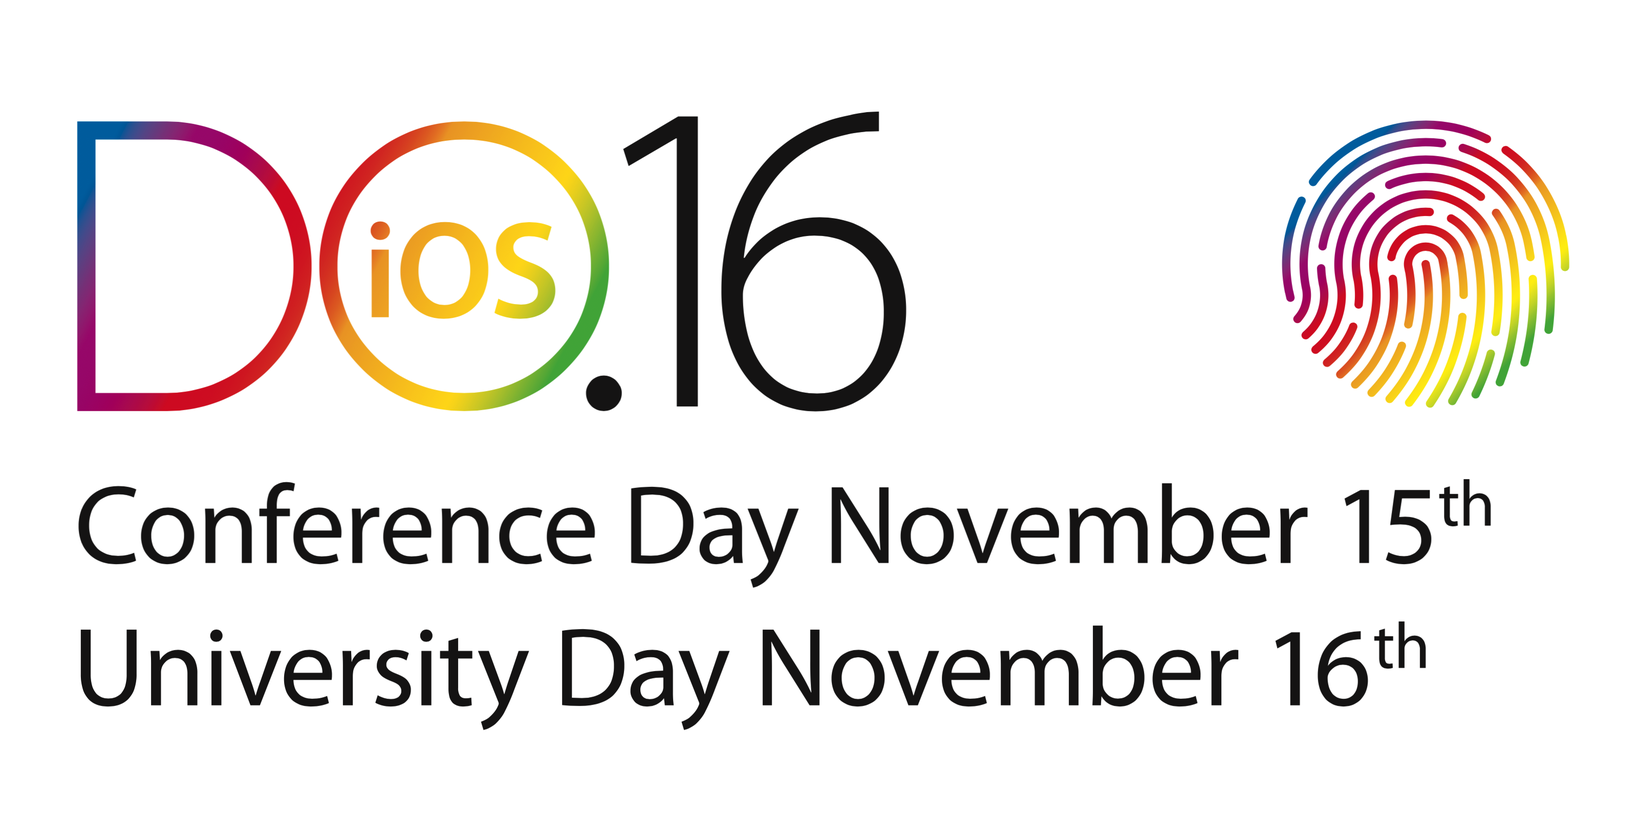
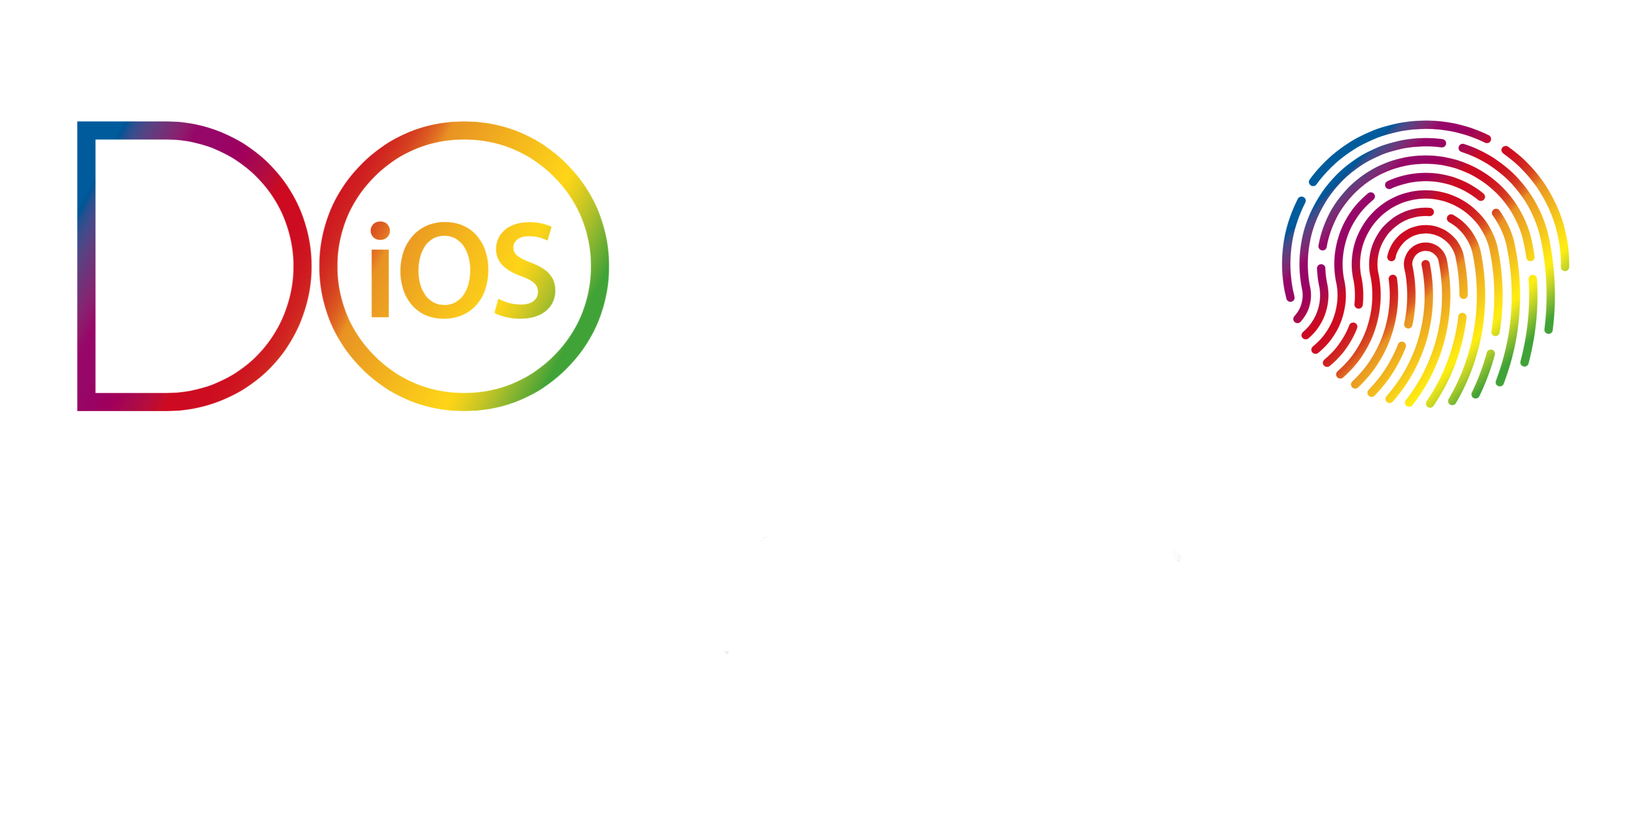
Update site for launch 2018.

Changed region(s): [[0.0312, 0.75, 0.875, 0.9062], [0.0312, 0.5938, 0.9062, 0.7188], [0.3438, 0.125, 0.5625, 0.5]]

diff --git a/index.html b/index.html
@@ -3,17 +3,17 @@
   <head>
     <title>DO iOS Conference-The iOS conference in Amsterdam</title>
     <meta charset="utf-8"/>
-    <meta name="description" content="Meet us in Amsterdam, November 15th and 16th, 2016 and get inspired by talks from the best gurus and iOS professionals."/>
+    <meta name="description" content="Meet us in Amsterdam, November 2nd, 2018."/>
     <meta name="twitter:card" content="summary_large_image">
-    <meta name="twitter:image" content="http://do-ios.com/images/card.png?v=1337">
+    <meta name="twitter:image" content="https://do-ios.com/images/card.png?v=1337">
     <meta name="twitter:site" content="@iosconf">
-    <meta name="twitter:title" content="DO iOS Conference-The iOS conference in Amsterdam">
-    <meta name="twitter:description" content="Meet us in Amsterdam, November 15th and 16th, 2016 and get inspired by talks from the best gurus and iOS professionals.">
-    <meta property="og:url" content="http://do-ios.com/" />
-    <meta property="og:title" content="DO iOS Conference-The iOS Conference in Amsterdam" />
-    <meta property="og:description" content="Meet us in Amsterdam, November 15th and 16th, 2016 and get inspired by talks from the best gurus and iOS professionals." />
-    <meta property="og:image" content="http://do-ios.com/images/card.png?v=1337" />
-    <meta name="keywords" content="iOS conference amsterdam do november 2016 zwijger"/>
+    <meta name="twitter:title" content="DO iOS Conference - The iOS conference in Amsterdam">
+    <meta name="twitter:description" content="Meet us in Amsterdam, November 2nd, 2018.">
+    <meta property="og:url" content="https://do-ios.com/" />
+    <meta property="og:title" content="DO iOS Conference - The iOS Conference in Amsterdam" />
+    <meta property="og:description" content="Meet us in Amsterdam, November 2nd, 2018." />
+    <meta property="og:image" content="https://do-ios.com/images/card.png?v=1337" />
+    <meta name="keywords" content="iOS conference amsterdam do november 2018"/>
     <meta name="viewport" content="width=device-width">
     <link rel="stylesheet" href="main.css?v=41"/>
     <link rel="shortcut icon" type="image/png" href="/images/logo-60.png"/>
@@ -27,235 +27,40 @@
       <div id="topMenu">
         <div id="logo-wrapper">
           <p id="logo_and_payoff">
-            <img id="logo" src="images/do_ios_logo_with_date.png" />
+            <img id="logo" src="images/do_ios_logo.png" />
             Conference for<br>developers
           </p>
           <img id="caliper" src="images/caliper.png" />
         </div>
         <div class="full-horizontal upper">
-            <a href="#speakers" class="hover-red">Speakers</a>
-            <a href="#conference" class="hover-blue">Conference</a>
-            <!--<a href="#university" class="hover-purple">University</a>-->
-            <a href="#schedule" class="hover-green">Schedule</a>
-            <!--<a href="#tickets" class="hover-orange">Tickets</a>
-            <a href="#location" class="hover-yellow">Location</a>-->
+<!--             <a href="#speakers" class="hover-red">Speakers</a> -->
+<!--             <a href="#conference" class="hover-blue">Conference</a> -->
+<!--             <a href="#university" class="hover-purple">University</a> -->
+<!--             <a href="#schedule" class="hover-green">Schedule</a> -->
+            <a href="#tickets" class="hover-orange">Tickets</a>
+<!--             <a href="#location" class="hover-yellow">Location</a> -->
             <a href="#contact" class="hover-green">Contact</a>
         </div>
         <div id="fake-bottom-separator"></div>
       </div>
       <section class="main">
         <a name="conference"></a> 
+        <h1>
+	        Save the date November 2nd, 2018.<br/>
+	        More info soon.
+        </h1>
         <p>
-          Thanks for another great DO iOS, and see you next year!<br>
-          Videos of the 2016 sessions will be online soon at our <a href="https://www.youtube.com/playlist?list=PLC3RVtNPazW9npPAmF61HyNDCiL3GDmoZ&mc_cid=24fc5b5631">YouTube channel</a><br>
-        </p>
-        <img width="171.5" class="date scale-effect" src="images/november_15.png" />
-        <img width="172" class="date scale-effect" src="images/november_16.png" /><br>
-        <!--<a href="https://itunes.apple.com/us/app/do-conf-schedule/id1049435615?mt=8"><img src="images/appstore.svg" /></a>-->
-      </section>
-      <section class="main fade">
-        <div class="col-3"><h3>Conference for developers</h3><p>Learn about the latest advancements in Apple technologies.</p></div>
-        <div class="vertical-separator"></div>
-        <div class="col-3"><h3>In-Depth experience</h3><p>Immerse yourself in fantastic sessions about <span class="ios">iOS</span>, Swift and the latest frameworks.</p></div>
-        <div class="vertical-separator"></div>
-        <div class="col-3"><h3>Build to last</h3><p>Get insight into best practices to create 5-star apps.</p></div>
-      </section>
-      <section class="main">
-        <a name="speakers"></a>
-        <img class="h1 scale-effect" src="images/speech_bubble.png"/>
-        <h1>Speakers</h1>
-        <ul id="speakers">
-          <li>
-            <img class="speaker-image-round" src="images/speakers/ayaka_nonaka.jpg" />
-            <h4>Ayaka Nonaka</h4>
-            <h5>Keynote: contributing to swift</h5>
-            <h5><a href="http://twitter.com/ayanonagon">@ayanonagon</a></h5>
-            <p>iOS Engineer @ WorkflowHQ and author of <a href="http://swift.ayaka.me/">Learn Swift ↯</a></p>
-          </li>
-          <li>
-            <img class="speaker-image-round" src="images/speakers/steve_scotty.png" />
-            <h4>Steve Scott</h4>
-            <h5>Closing keynote: the selfie developer</h5>
-            <h5><a href="http://twitter.com/macdevnet">@macdevnet</a></h5>
-            <p>OS X / iOS Developer and host of the <a href="http://blog.ideveloper.co/">iDeveloper Podcast</a></p>
-          </li>
-          <li>
-            <img class="speaker-image-round" src="images/speakers/nandini.png" />
-            <h4>Nandini Chauhan</h4>
-            <h5>1 + 1 = 1</h5>
-            <h5><a href="https://twitter.com/nandinichauhan8">@nandinichauhan8</a></h5>
-            <p>iOS chapter lead and iOS developer at ING Mobile developing the latest and greatest features for their customers</p>
-          </li>
-          <li>
-            <img class="speaker-image-round" src="images/speakers/jorge_ortiz.jpg" />
-            <h4>Jorge Ortiz</h4>
-            <h5>To protect and to serve</h5>
-            <h5><a href="http://twitter.com/jdortiz">@jdortiz</a></h5>
-            <p>Freelance developer dedicated to mobile development, security and systems architecture</p>
-          </li>
-          <li>
-            <img class="speaker-image-round" src="images/speakers/niels_van_hoorn.jpg" />
-            <h4>Niels van Hoorn</h4>
-            <h5>Protocol-oriented coordinators</h5>
-            <h5><a href="http://twitter.com/nvh">@nvh</a></h5>
-            <p>Product engineer at Framer. Master in AI. Worked on NRC iOS apps.</p>
-          </li>
-          <li>
-            <img class="speaker-image-round" src="images/speakers/natalia_berdys.jpg" />
-            <h4>Natalia Berdys</h4>
-            <h5>More random talk: the consistent world of noise</h5>
-            <h5><a href="http://twitter.com/batalia">@batalia</a></h5>
-            <p>Independent iOS developer from Poland.</p>
-          </li>
-          <li>
-            <img class="speaker-image-round" src="images/speakers/antoine.jpg" />
-            <h4>Antoine van der Lee</h4>
-            <h5>Using Functional Reactive Programming in Production</h5>
-            <h5><a href="http://twitter.com/twannl">@twannl</a></h5>
-            <p>Lead iOS developer @ Triple, developer of Buienradar & Videoland</p>
-          </li>
-          <li>
-            <img class="speaker-image-round" src="images/speakers/bart_den_hollander.jpg" />
-            <h4>Bart den Hollander</h4>
-            <h5>Improving performance of UICollectionView on iOS 10</h5>
-            <h5><a href="http://twitter.com/hollanderbart">@hollanderbart</a></h5>
-            <p>Embedded programmer turned Swifty iOS developer</p>
-          </li>
-          <li>
-            <img class="speaker-image-round" src="images/speakers/donny_wals.jpg" />
-            <h4>Donny Wals</h4>
-            <h5>Improving apps with iOS 10 notifications</h5>
-            <h5><a href="http://twitter.com/DonnyWals">@DonnyWals</a></h5>
-            <p>Passionate iOS developer. Loves learning and sharing knowledge.</p>
-          </li>
-          <li>
-            <img class="speaker-image-round" src="images/speakers/rob_napier.png" />
-            <h4>Rob Napier</h4>
-            <h5>Once more, with types</h5>
-            <h5><a href="http://twitter.com/cocoaphony">@cocoaphony</a></h5>
-            <p>Author and Cocoa programmer with a passion for the fiddly bits below the surface</p>
-          </li>
-        </ul>
-      </section>
-      <section class="main schedule fade">
-        <a name="schedule"></a>
-        <img class="h1 scale-effect" src="images/speech_bubble.png"/>
-        <h1>Schedule</h1>
-        <h4>Conference Day 15th November</h4>
-        <ul class="schedule-contents">
-          <li>
-            <span class="time">8:00</span> - <span class="schedule-title">Registration</span>
-          </li>
-          <li>
-            <span class="time">9:00</span> - <span class="schedule-title">Introduction</span>
-          </li>
-          <li>
-            <span class="time">9:15</span> - <span class="schedule-title">Keynote: contributing to swift</span><a class="speaker" href="http://twitter.com/ayanonagon"> - Ayaka Nonaka</a>
-            <p class="small-screen-speaker"> - <a href="http://twitter.com/ayanonagon">Ayaka Nonaka</a></p>
-          </li>
-          <li>
-            <span class="time">10:00</span> - <span class="schedule-title">To protect and to serve</span><a class="speaker" href="http://twitter.com/jdortiz"> - Jorge Ortiz</a>
-            <p class="small-screen-speaker"> - <a href="http://twitter.com/jdortiz">Jorge Ortiz</a></p>
-            <p>Now that we can use Swift in the backend, it is even more relevant to use a good architecture in order to maximize the amount of code that we can share between the frontend and the backend.</p>
-            <p>In this talk, I will start by covering briefly the architecture of a mobile app.  Then, using that architecture as a reference, I will explain the parts that can be easily shared and the keys for an implementation that maximizes the chances of that sharing.  I will also go through some scenarios in which sharing the code will not help us much.</p>
-          </li>
-          <li>
-            <span class="time">10:30</span> - <span class="schedule-title">Break</span>
-          </li>
-          <li>
-            <span class="time">11:00</span> - <span class="schedule-title">Improving performance for UICollectionView in iOS 10</span><a class="speaker" href="http://twitter.com/hollanderbart"> - Bart den Hollander</a>
-            <p class="small-screen-speaker"> - <a href="http://twitter.com/hollanderbart">Bart den Hollander</a></p>
-            <p>With iOS10, Apple implemented a whole load of new features, but also some tweaks to existing ones, like in UICollectionView (and UITableView). With this presentation I will dive into the differences between iOS 10 and previous versions. I will demonstrate and show what the new possibilities are using live streams from Dutch television broadcast NPO, shown in a collectionview.</p>
-          </li>
-          <li>
-            <span class="time">11:30</span> - <span class="schedule-title">ING: 1 + 1 = 1</span><span class="speaker"> - Nandini Chauhan</span>
-            <p class="small-screen-speaker"> - <span>Nandini Chauhan</span></p>
-            <p>This year the ING has been working on taking their banking app for the Dutch market global. In this presentation Nandini will talk about this journey and how the team at ING tackled some of the obstacles along the way.</p>
-          </li>
-          <li>
-            <span class="time">12:20</span> - <span class="schedule-title">Lunch break</span>
-          </li>
-          <li>
-            <span class="time">13:30</span> - <span class="schedule-title">Using Functional Reactive Programming</span><a class="speaker" href="http://twitter.com/twannl"> - Antoine van der Lee</a>
-            <p class="small-screen-speaker"> - <a href="http://twitter.com/twannl">Antoine van der Lee</a></p>
-            <p>This talk will give you insights into how Functional Reactive Programming can help you build apps faster by making it more easy to implementing common patterns such as networking failure UI feedback. I’ll discuss the way we build apps like RTL XL and Buienradar at Triple and how we create projects which are familiar to work on for all developers in our team.
+          Thanks for a great DO iOS 2015 and 2016!<br>
 
-Combining ReactiveCocoa, Moya and a JSON parsing libraries creates new ways of networking in iOS apps built with Swift. By creating UI elements which can connect with these library you gain the ability to implement common patterns.
-</p>
-          </li>
-          <li>
-          <span class="time">14:00</span> - <span class="schedule-title">Improving apps with iOS 10 notifications</span><a class="speaker" href="http://twitter.com/DonnyWals"> - Donny Wals</a>
-            <p class="small-screen-speaker"> - <a href="http://twitter.com/DonnyWals">Donny Wals</a></p>
-            <p>Apple has introduced a new framework for notifications in iOS 10. This framework enabled developers to build extensions that provide awesome new ways for users to interact with apps at a moment's notice.</p>
-            <p>The talk will start off with an overview of iOS 10 notifications and how they are different from iOS 9. Next, I'll show how to implement the new Notifications framework and how to create a notification extension. Then I'll demonstrate how to implement a notification that enables a user to use a small part of your app without opening. Finally, I will provide some insights into how the audience can think of ways to enrich their notifications and boost engagement with the new Notifications framework.</p>
-          </li>
-          <li>
-            <span class="time">14:30</span> - <span class="schedule-title">Break</span>
-          </li>
-          <li>
-            <span class="time">15:00</span> - <span class="schedule-title">Protocol-oriented coordinators</span><a class="speaker" href="http://twitter.com/nvh"> - Niels van Hoorn</a>
-            <p class="small-screen-speaker"> - <a href="http://twitter.com/nvh">Niels van Hoorn</a></p>
-            <p>As ViewControllers have the tendency to become massive over time, we’re looking for patterns to move responsibilities to other objects. Using Coordinators is one way to handle this problem. In this live coding session we we explore a protocol oriented way of implementing coordinators, using some new features of Swift 3.</p>
-            <p>Because this session will be performed completely in Swift Playgrounds on an iPad, it will also show that, while Playgrounds are fun to play around with, they are definitely more then a toy.</p>
-          </li>
-          <li>
-            <span class="time">15:30</span> - <span class="schedule-title">More random talk: the consistent world of noise</span><a class="speaker" href="http://twitter.com/batalia"> - Natalia Berdys</a>
-            <p class="small-screen-speaker"> - <a href="http://twitter.com/batalia">Natalia Berdys</a></p>
-            <div class="col-md-offset-4">
-              <p>Chance permeates our human existence - but it’s our instinct to seek order in chaos. In this extended talk, we’ll dig deeper into the fishy realm of randomness, and when it’s just too unnatural for our apps - let’s bend it to our will by making it evolve into coherent patterns with the GameplayKit framework. We’ll use some of the newest iOS 10 APIs and procedural noise to generate harmonious digital worlds, landscapes and textures - a comforting way to mine some creativity from silicon chips.</p>
-            </div>
-          </li>
-          <li>
-            <span class="time">16:00</span> - <span class="schedule-title">Break</span>
-          </li>
-          <li>
-            <span class="time">16:30</span> - <span class="schedule-title">Once more, with types</span><a class="speaker" href="http://twitter.com/cocoaphony"> - Rob Napier</a>
-            <p class="small-screen-speaker"> - <a href="http://twitter.com/cocoaphony">Rob Napier</a></p>
-            <div class="col-md-offset-4">
-              <p>Functional programming in Swift is all the rage, but many of the tools of functional languages don't translate easily to Swift. So much focus on lambdas and monads has caused us to overlook one of the most powerful lessons from decades of functional programming research: the power of strong types.</p>
-              <p>In this session we'll discuss what makes types weak or strong and how to build simple types that make whole classes of bugs impossible. We'll learn to tear over-complicated types apart and put them back together using simple rules. And we'll learn the basic vocabulary of types so we can talk about why to choose a struct or an enum, when to use an Optional, and how to fix common type mistakes in Swift.</p>
-          </li>
-          <li>
-            <span class="time">17:00</span> - <span class="schedule-title">Closing keynote: the selfie developer</span><a class="speaker" href="http://twitter.com/macdevnet"> - Steve Scott</a>
-            <p class="small-screen-speaker"> - <a href="http://twitter.com/macdevnet">Steve Scott</a></p>
-          </li>
-          <li>
-            <span class="time">17:45</span> - <span class="schedule-title">Closing + drinks!</span>
-          </li>
-          <li class="sessions-footer">
-            Schedule is subject to change
-          </li>
-        </ul>
+          Videos of the 2016 sessions are available at Xebia's <a href="https://www.youtube.com/playlist?list=PLC3RVtNPazW9npPAmF61HyNDCiL3GDmoZ&mc_cid=24fc5b5631">YouTube channel</a><br>
+        </p>
       </section>
-      <!--
-      <section class="main university">
-          <a name="university"></a> 
-          <img class="h1 scale-effect" src="images/fingerprint.png"/>
-          <h1>Thinking in Swift 3 by Jorge Ortiz</h1>
-          <h4>University Day 16th November</h4>
-          <p>In addition to the main <span class="ios">DO iOS</span> Conference Day, we’ll host a <span class="ios">DO iOS</span> University Day where Jorge Ortiz will explain more about the Patterns of Programming in Swift.</p>
-          <h2>Who's it for?</h2>
-          <p>This course is for programmers who know the fundamentals of the Swift Programming Language but haven't mastered the paradigms.</p>
-          <h2>What you'll learn</h2>
-          <p>This fast-paced workshop shows you how to take advantage of Swift features to write more robust code that is easier to reason about. Swift has been changing quickly over the past year. In this workshop you'll learn to embrace the latest Swift 3 conventions.</p>
-          <p>One of the strengths of Swift is that it can borrow the best from a multitude of paradigms. Swift stresses protocol oriented programming. We'll look at how to successfully use it and weave it together with OO and functional code into a readable and flexible architecture.</p>
-          <p>We assume that you are an experienced programmer who has spent some time looking at Swift but you aren't yet an expert in Swift. You understand most of the hows and whats of working with Swift and are looking for the whys and wheres.</p>
-      </section>
+
       <section class="main fade">
           <a name="tickets"></a> 
-          <img class="h1 scale-effect" src="images/gear.png"/>
           <h1>Available Tickets</h1>
-          <p>In addition to the main <span class="ios">DO iOS</span> Conference Day, we’ll host a <span class="ios">DO iOS</span> University Day when leading experts will explain the latest tech, step by step. (limited availability)</p>
-          <iframe id="eventbrite" src="http://eventbrite.nl/tickets-external?eid=26388244951&ref=etckt" frameborder="0" vspace="0" hspace="0" width="100%" scrolling="no" allowtransparency="true"></iframe>
-      </section>
-      -->
-      <section class="main aftermovie fade">
-        <iframe id="aftermovie" src="https://www.youtube.com/embed/vrDJlEOFg-g" frameborder="0" allowfullscreen></iframe>
-        <p>Last year developers absolutely loved DO iOS. You can watch the aftermovie or check out the link below to watch past presentations. And DO iOS 2016 promises to be even better!</p>
-        <p><a href="https://www.youtube.com/playlist?list=PLC3RVtNPazW9npPAmF61HyNDCiL3GDmoZ">WATCH</a> <span class="ios">DO iOS</span> 2015 Past Presentations</p>
-      </section>
-      <section class="main fade">
-          <h1>Sponsors</h1>
+	  <iframe src="https://cocoaheadsnl.paydro.com/do-ios-2018?embed=true&amp;header=false" frameborder="0" width="100%" height="1040" marginheight="0" marginwidth="0" allowtransparency="true" id="paydro-iframe" scrolling="no" style="max-width: 650px; height: 483px;" data-shop="do-ios-2018"></iframe><script src="https://cocoaheadsnl.paydro.com/js/paydro-embed.js"></script>
+          <h1>2016 Sponsor</h1>
           <a href="https://ing.nl/"><img class="sponsor" src="images/sponsors/ING.png" /></a>
       </section>
       <!--
@@ -272,19 +77,16 @@ Combining ReactiveCocoa, Moya and a JSON parsing libraries creates new ways of n
           <iframe id="map" src="https://www.google.com/maps/embed?pb=!1m18!1m12!1m3!1d11016.024376682528!2d4.914606613274338!3d52.37243403858497!2m3!1f0!2f0!3f0!3m2!1i1024!2i768!4f13.1!3m3!1m2!1s0x47c609a80e2c8a2f%3A0x7aa4a309522352c!2sZalen+Pakhuis+de+Zwijger+B.V.!5e0!3m2!1sen!2snl!4v1470589349237" frameborder="0" style="border:0" allowfullscreen></iframe>
           <p class="clear"></p>
       </section>
-      <section class="main fade cfp">
-          <h1>Enter our Call For Papers</h1>
-          <p>The Call for Papers has now been closed and therefore we do not accept new submissions anymore.</p>
-      </section>
       -->
       <footer class="footer">
-          <a name="contact"></a> 
+            <a name="contact"></a>
           <p><a class="twitter-follow-button" href="https://twitter.com/iosconf">Follow DO iOS</a></p>
-          <p>Produced by: <a href="http://xebia.com">Xebia</a></p>
-          <p>Community Partner: <a href="http://cocoaheads.nl/">CocoaHeadsNL</a></p>
+          <p>Produced by: <a href="https://cocoaheads.nl/">CocoaHeadsNL</a></p>
+          <p>2015 and 2016 editions produced by: <a href="https://xebia.com">Xebia</a></p>
           <img class="h1 scale-effect" src="images/shutter.png"/>
           <p><span class="ios">DO iOS</span> is dedicated to a harassment-free conference experience for everyone. Our anti-harassment policy can be found here: <a href="http://confcodeofconduct.com/" class="nowrap">confcodeofconduct.com</a></p>
-          <p>We're always looking for more sponsors that are just as enthousiastic about mobile as we are.<br> Get in touch to get involved: <a href="tel:+31628453246">+31 (0)6 284 532 46</a> or email to <a href="mailto:info@do-ios.com" class="nowrap">info@do-ios.com</a></p>
+          <p>We're always looking for more sponsors that are just as enthusiastic about mobile as we are.<br> Get in touch to get involved: <a href="tel:+31624350511">+31 (0)6 243 505 11</a> or email to <a href="mailto:info@do-ios.com" class="nowrap">info@do-ios.com</a></p>
+          <br/><br/>
       </footer>
     </div>
     </div>
@@ -294,16 +96,17 @@ Combining ReactiveCocoa, Moya and a JSON parsing libraries creates new ways of n
       	document.body.className += (navigator.userAgent.match(/(MSIE|rv:11\.0)/) ? ' is-ie' : '');
       }
     </script>
+<!-- Global site tag (gtag.js) - Google Analytics -->
+<script async src="https://www.googletagmanager.com/gtag/js?id=UA-59854133-5"></script>
 <script>
-  (function(i,s,o,g,r,a,m){i['GoogleAnalyticsObject']=r;i[r]=i[r]||function(){
-  (i[r].q=i[r].q||[]).push(arguments)},i[r].l=1*new Date();a=s.createElement(o),
-  m=s.getElementsByTagName(o)[0];a.async=1;a.src=g;m.parentNode.insertBefore(a,m)
-  })(window,document,'script','https://www.google-analytics.com/analytics.js','ga');
+  window.dataLayer = window.dataLayer || [];
+  function gtag(){dataLayer.push(arguments);}
+  gtag('js', new Date());
 
-  ga('create', 'UA-47576225-6', 'auto');
-  ga('send', 'pageview');
-
+  gtag('config', 'UA-59854133-5');
 </script>
+
+
     <script>window.twttr = (function(d, s, id) {
   var js, fjs = d.getElementsByTagName(s)[0],
     t = window.twttr || {};
@@ -320,6 +123,10 @@ Combining ReactiveCocoa, Moya and a JSON parsing libraries creates new ways of n
  
   return t;
 }(document, "script", "twitter-wjs"));</script>
+
+<!-- Mailchimp signup. -->
+<script type="text/javascript" src="//downloads.mailchimp.com/js/signup-forms/popup/embed.js" data-dojo-config="usePlainJson: true, isDebug: false"></script><script type="text/javascript">require(["mojo/signup-forms/Loader"], function(L) { L.start({"baseUrl":"mc.us11.list-manage.com","uuid":"6f877a041116607a7177a86fc","lid":"d2c44fb265"}) })</script>
+
   </body>
 </html>
 

diff --git a/main.css b/main.css
@@ -1,6 +1,6 @@
 @charset "UTF-8";
 @import url(font-awesome.min.css);
-@import url("http://fonts.googleapis.com/css?family=Source+Sans+Pro:300");
+@import url("https://fonts.googleapis.com/css?family=Source+Sans+Pro:300");
 
 /* Reset */
 
